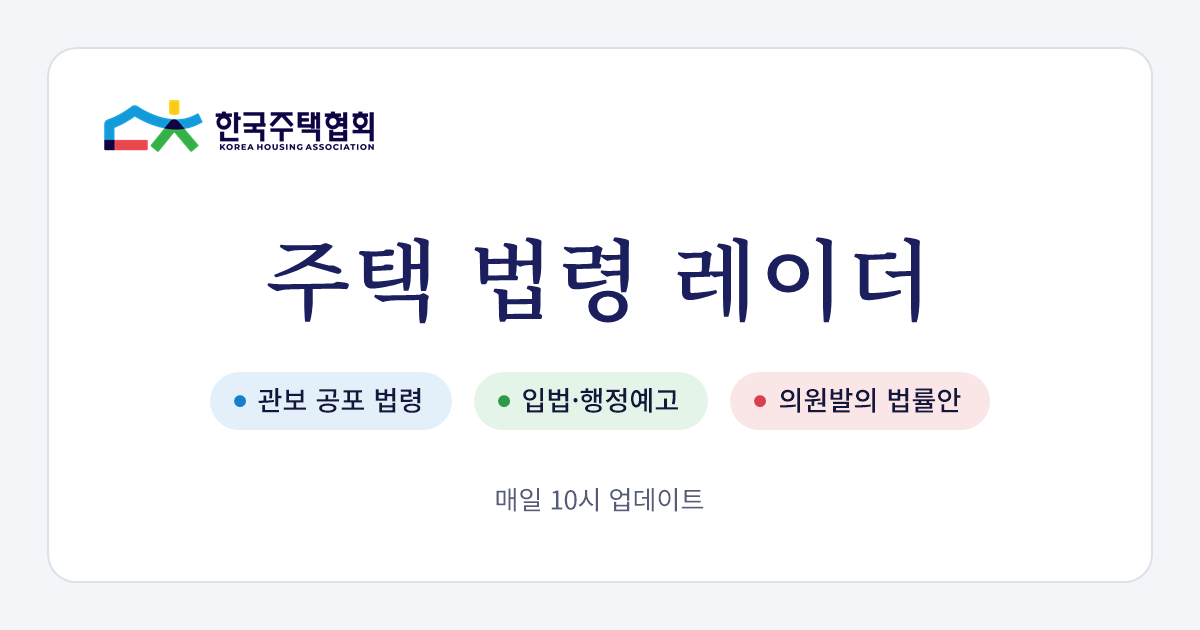
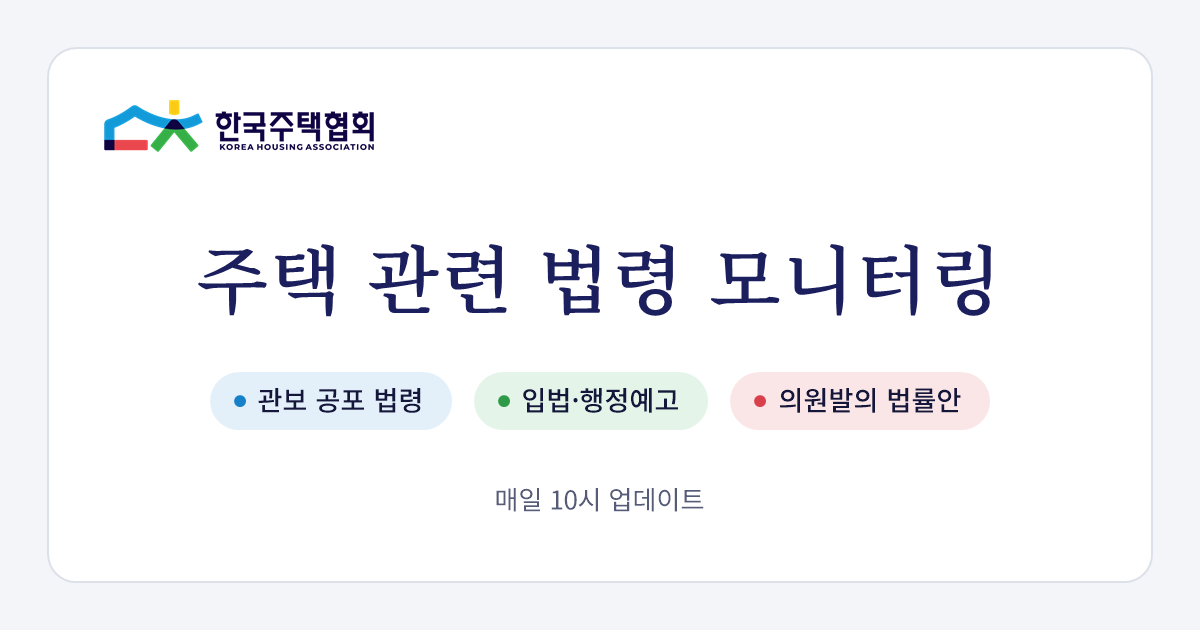
공유 썸네일 제목·미리보기 문구 수정

Changed region(s): [[0.1542, 0.3619, 0.8325, 0.5127]]

diff --git a/index.html b/index.html
@@ -1,4 +1,4 @@
-<!doctype html><html lang="ko"><head><meta charset="utf-8"><meta name="viewport" content="width=device-width,initial-scale=1"><meta name="robots" content="noindex, nofollow"><style>body{margin:0}</style><meta property="og:type" content="website"><meta property="og:url" content="https://hyuk8051-oss.github.io/housing-law/"><meta property="og:title" content="주택 관련 법령 모니터링"><meta property="og:description" content="관보 공포 법령·입법예고·의원발의 법률안을 매일 필터링합니다."><meta property="og:image" content="https://hyuk8051-oss.github.io/housing-law/og-image.png"><meta property="og:image:width" content="1200"><meta property="og:image:height" content="630"><meta name="twitter:card" content="summary_large_image"><link rel="icon" type="image/png" href="favicon.png"><link rel="apple-touch-icon" href="apple-touch-icon.png"><link rel="manifest" href="manifest.webmanifest"><meta name="apple-mobile-web-app-title" content="법령 레이더"><meta name="application-name" content="법령 레이더"><meta name="theme-color" content="#1B1F5E">
+<!doctype html><html lang="ko"><head><meta charset="utf-8"><meta name="viewport" content="width=device-width,initial-scale=1"><meta name="robots" content="noindex, nofollow"><style>body{margin:0}</style><meta property="og:type" content="website"><meta property="og:url" content="https://hyuk8051-oss.github.io/housing-law/"><meta property="og:title" content="전자관보·국토부 입법행정예고·국회 법률안을 매일 필터링합니다."><meta property="og:image" content="https://hyuk8051-oss.github.io/housing-law/og-image.png"><meta property="og:image:width" content="1200"><meta property="og:image:height" content="630"><meta name="twitter:card" content="summary_large_image"><link rel="icon" type="image/png" href="favicon.png"><link rel="apple-touch-icon" href="apple-touch-icon.png"><link rel="manifest" href="manifest.webmanifest"><meta name="apple-mobile-web-app-title" content="법령 레이더"><meta name="application-name" content="법령 레이더"><meta name="theme-color" content="#1B1F5E">
 <title>주택 관련 법령 모니터링</title>
 <link rel="preconnect" href="https://fonts.googleapis.com">
 <link rel="preconnect" href="https://fonts.gstatic.com" crossorigin>
